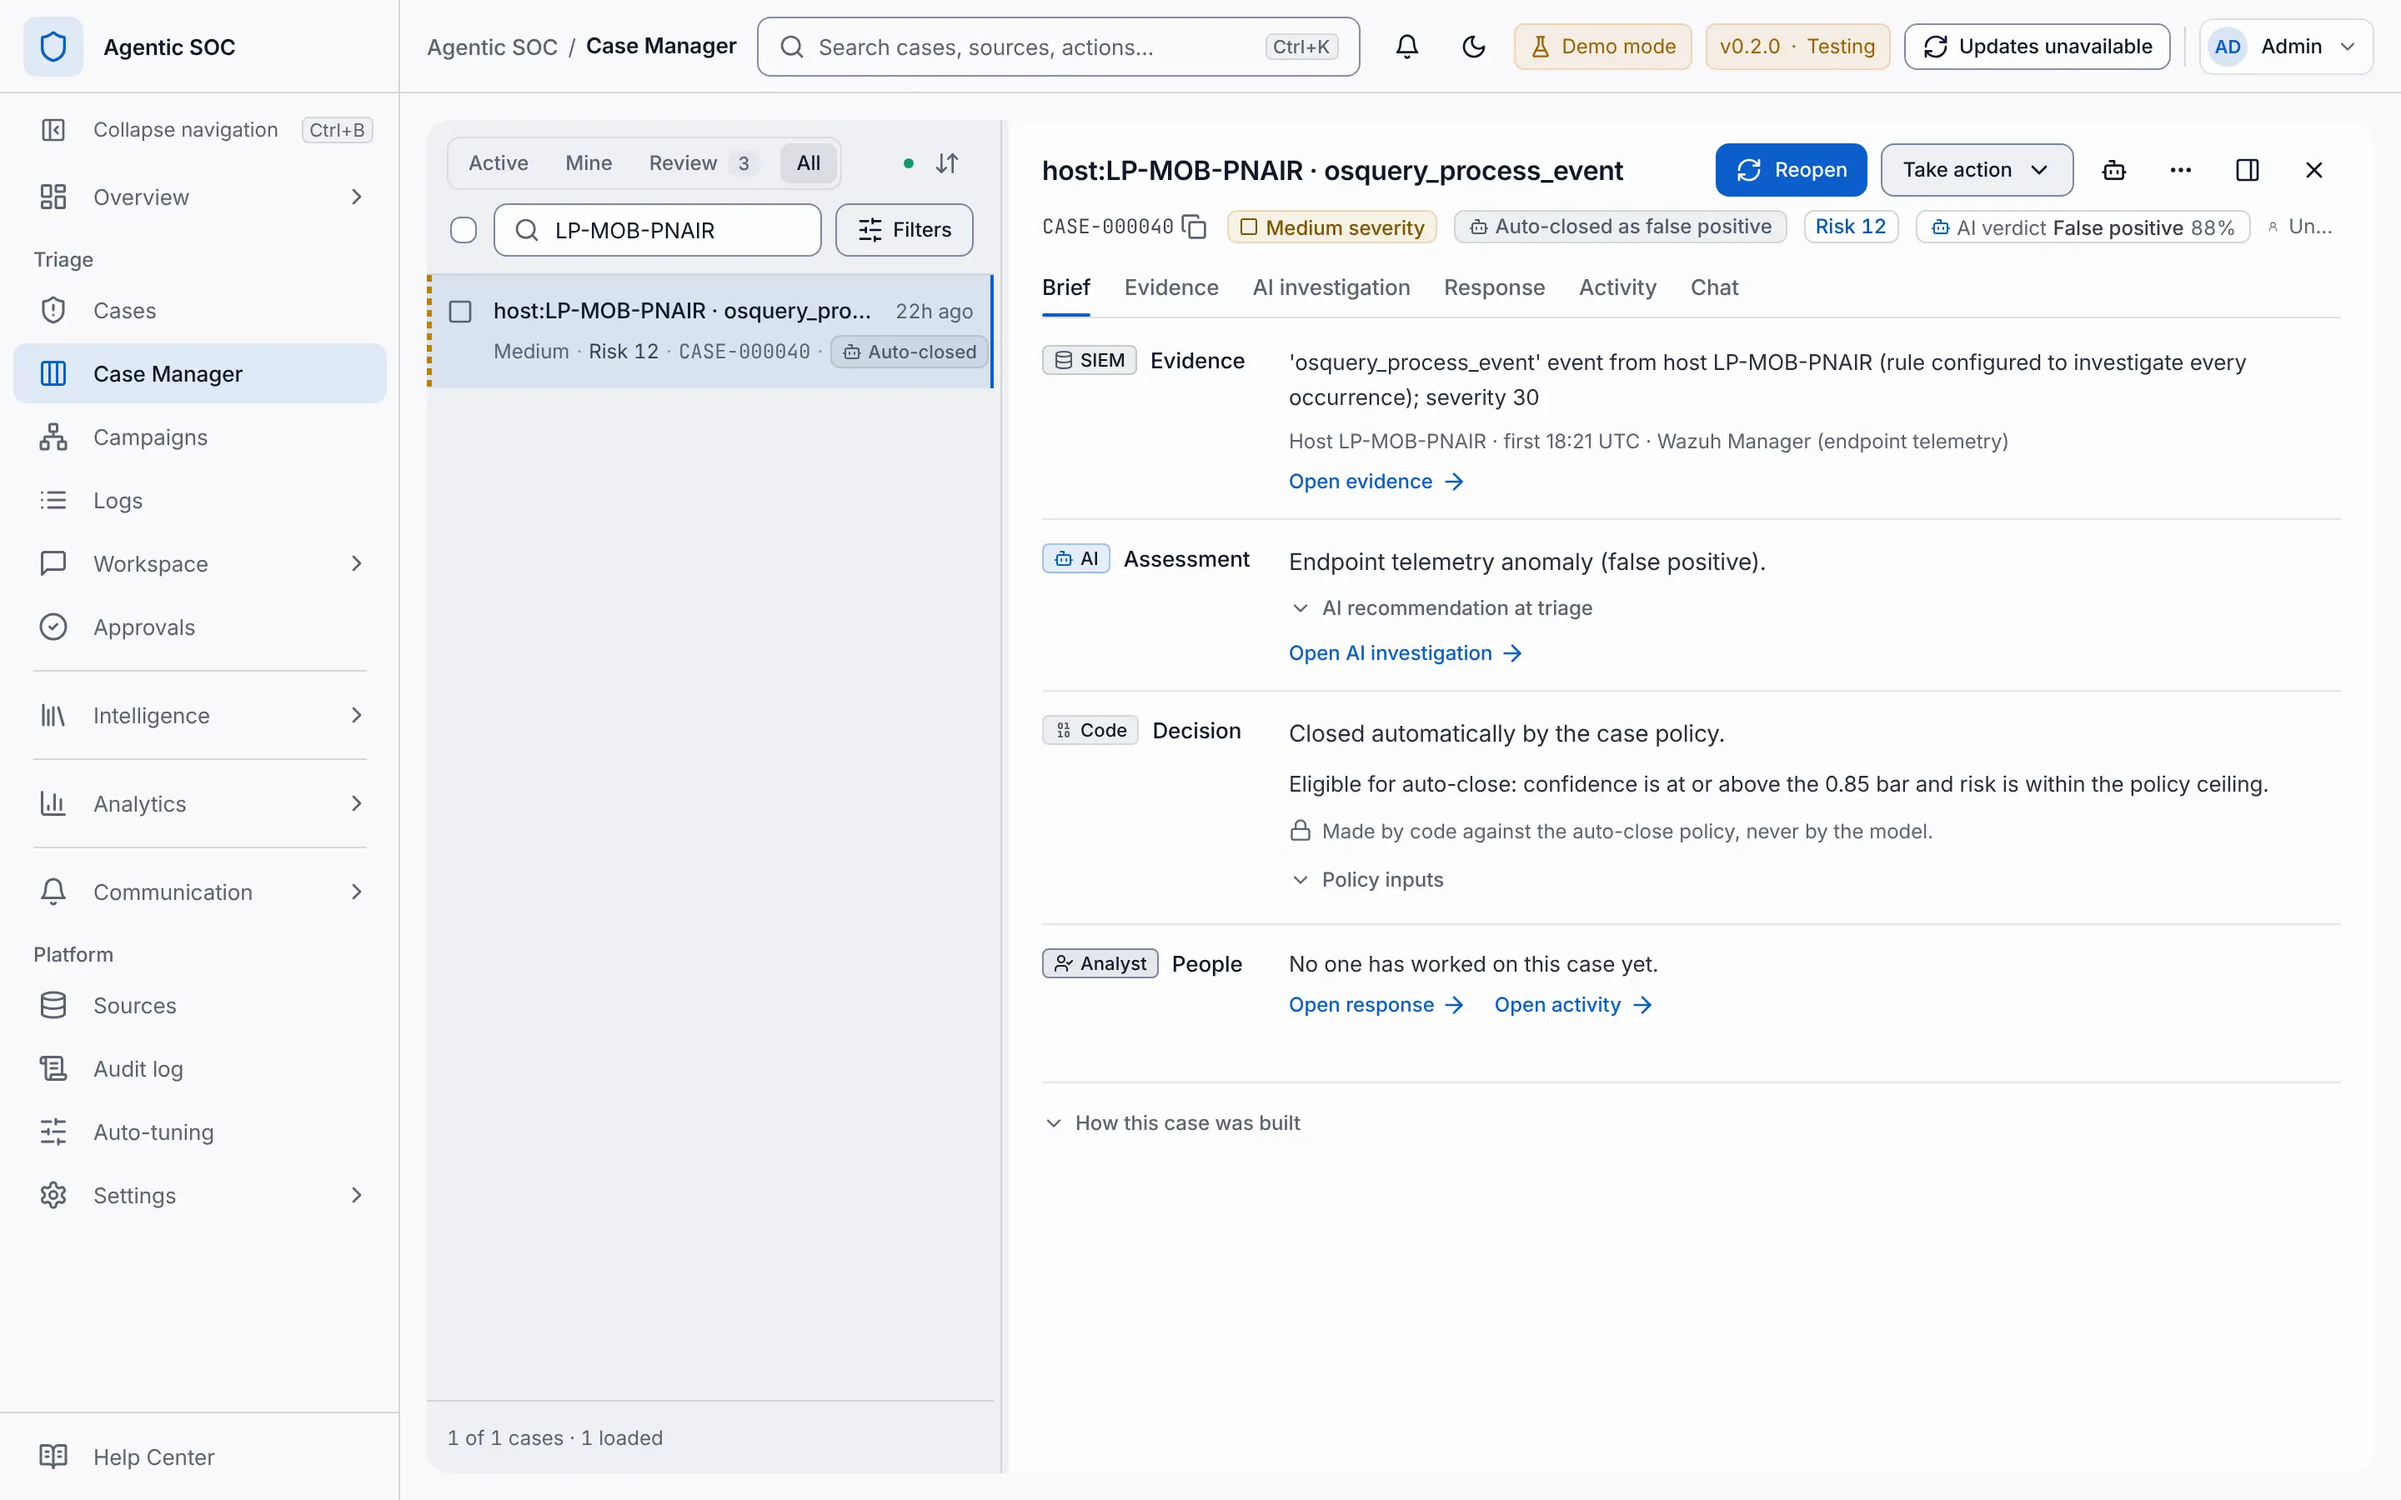
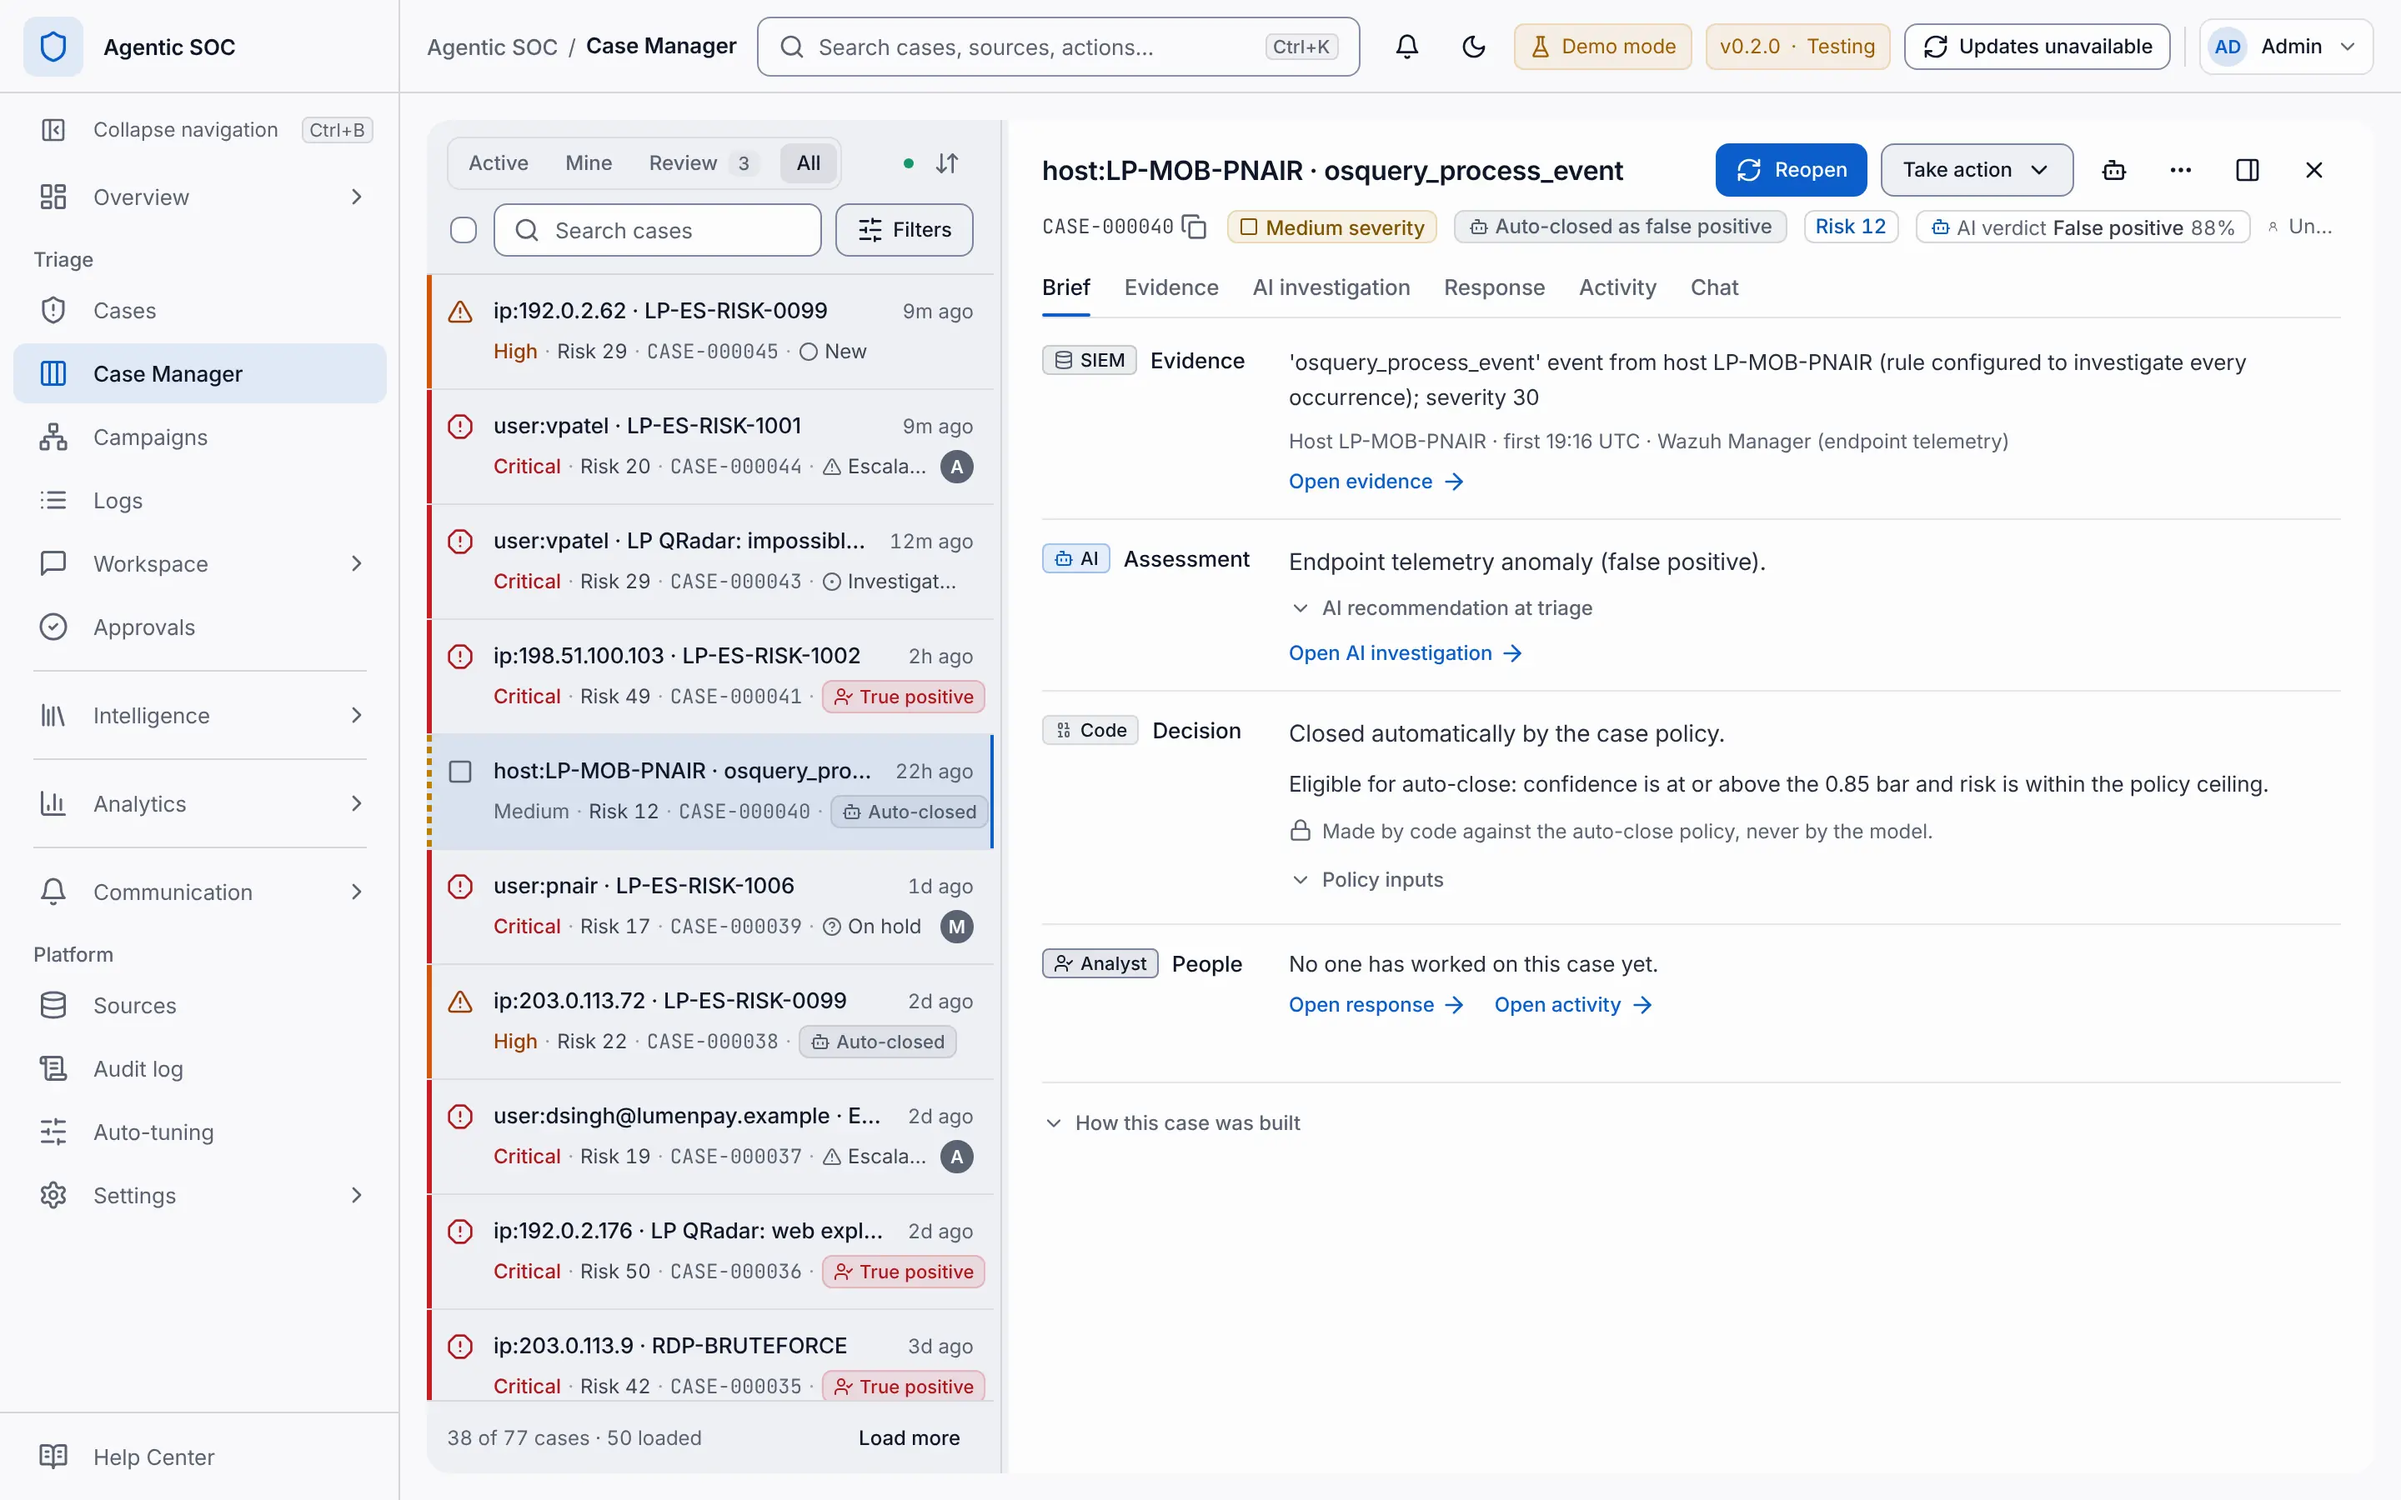
WP17D review: whole chat-titles frame, full Case Manager queue, data export alt
- chat-titles light and dark were cut through the first question at the right
  edge and through a list line at the bottom. Captured again from a fresh
  seeded Demo (2742 by 376), so the whole question shows and the crop ends
  between two lines.
- docs/assets/screenshots/case-manager.webp showed a queue of one row filtered
  by a search. Captured again with the All scope and no search, CASE-000040
  open and the cases around it listed (same name, size and light theme).
- The data-export alt text said the Build ZIP in background button "is off";
  it is unavailable in Demo Mode, and the alt text now says so.
- Regenerated release-notes.gen.json and whats-new.md; the knowledge corpus is
  unchanged. The record's WP17D section gives the new sizes, the bundle size
  and a Review subsection.
- test_round16_wp17d_records.py: two tests for the recaptures and the alt text,
  both failing on the WP17D files.

Claude-Session: https://claude.ai/code/session_01B3vp5DoutxD6hpRJ5xf7sH

diff --git a/backend/tests/test_round16_wp17d_records.py b/backend/tests/test_round16_wp17d_records.py
@@ -78,6 +78,19 @@ REPLACED_SIZE = {
 }
[1 lines of base64/hex data omitted]
 
+# The review's recaptures: the sha256 of each file as WP17D first committed it (2c147cc).
+# chat-titles was cut through the first question at the right edge and through a list line
+# at the bottom; case-manager.webp showed a queue of one row filtered by a search.
+REVIEW_REPLACED = {
[3 lines of base64/hex data omitted]
+}
+# The question bubble ends 1,402 CSS pixels from the left of the 1,440 viewport and the crop
+# starts after the 64-pixel rail, so a crop that holds the whole question is at least
+# 2 x (1,402 - 64) = 2,676 device pixels wide.
+CHAT_TITLES_MIN_WIDTH = 2 * (1402 - 64)
+
 
 def _read(path: Path) -> str:
     return path.read_text(encoding="utf-8")
@@ -192,3 +205,23 @@ def test_the_record_lists_every_file_this_package_added_or_replaced():
     names.append("case-manager.webp")
     unlisted = [name for name in names if f"`{name}`" not in section]
     assert unlisted == []
+
+
+def test_the_review_recaptures_replace_the_cut_and_filtered_frames():
+    stale = [path.name for path, old_sha in REVIEW_REPLACED.items()
+             if hashlib.sha256(path.read_bytes()).hexdigest() == old_sha]
+    assert stale == []
+    sizes = {_webp_size((ASSETS / f"chat-titles-{theme}.webp").read_bytes()) for theme in ("light", "dark")}
+    assert len(sizes) == 1, sizes
+    ((width, _height),) = sizes
+    assert width >= CHAT_TITLES_MIN_WIDTH, width
+    assert _webp_size(CASE_MANAGER_SHOT.read_bytes()) == (2880, 1800)
+    section = _wp17d_section()
+    assert "All scope with no search" in section
+    assert "and a search, so the open case" not in section
+
+
+def test_the_data_export_alt_says_the_button_is_unavailable():
+    alt = _highlights()["data-export"]["screenshot"]["alt"]
+    assert "Build ZIP in background button is unavailable" in alt
+    assert "is off" not in alt

diff --git a/docs/research/2026-11-round16/acceptance/screenshots.md b/docs/research/2026-11-round16/acceptance/screenshots.md
@@ -247,7 +247,7 @@ interface of the update they belong to (SPEC §4.7 WP17), so they stay as they a
 | `docked-navigation` (0.2.0.2026-11-06) | `docked-navigation-light.webp`: 115,750 B | `docked-navigation-dark.webp`: 111,620 B | 2880 by 1800 |
 | `chat-capacity` (0.2.0.2026-11-06) | `chat-capacity-light.webp`: 58,110 B | `chat-capacity-dark.webp`: 56,016 B | 1536 by 1520 |
 | `chat-starters` (0.2.0.2026-10-24) | `chat-starters-light.webp`: 56,874 B | `chat-starters-dark.webp`: 54,064 B | 2186 by 866 |
-| `chat-titles` (0.2.0.2026-10-24) | `chat-titles-light.webp`: 29,200 B | `chat-titles-dark.webp`: 27,844 B | 1992 by 416 |
+| `chat-titles` (0.2.0.2026-10-24) | `chat-titles-light.webp`: 29,900 B | `chat-titles-dark.webp`: 28,508 B | 2742 by 376 |
 | `chat-unlimited` (0.2.0.2026-10-12) | `chat-unlimited-light.webp`: 56,542 B | `chat-unlimited-dark.webp`: 53,864 B | 1536 by 980 |
 | `remember-me` (0.2.0.2026-10-12) | `remember-me-light.webp`: 48,056 B | `remember-me-dark.webp`: 43,536 B | 1600 by 900 |
 | `report-downloads` (0.2.0.2026-10-12) | `report-downloads-light.webp`: 27,340 B | `report-downloads-dark.webp`: 25,350 B | 824 by 886 |
@@ -271,10 +271,11 @@ The fourteen highlights the acceptance pass named all have figures. The other tw
 
 ### Docs screenshot
 
-`docs/assets/screenshots/case-manager.webp` (121,912 B, 2880 by 1800, light, the navigation
+`docs/assets/screenshots/case-manager.webp` (180,400 B, 2880 by 1800, light, the navigation
 expanded) was captured again: it showed the Brief's model lane as "AI AI", and the lane is now
-named Assessment. It shows CASE-000040, a false positive the AI closed, found with the queue's
-All scope and a search, so the open case is the highlighted row. The alt text in `README.md`
+named Assessment. It shows CASE-000040, a false positive the AI closed, open from the queue's
+All scope with no search, so the queue lists the other cases around its highlighted row. The
+alt text in `README.md`
 and `docs/getting-started/quickstart.md` now names the Assessment lane and says the case policy
 closed the case.
 
@@ -325,9 +326,9 @@ closed the case.
   none broken once each was scrolled into view: 35 themed pairs, each loaded in the page's
   theme with no file of the other theme, and the 9 single images of older updates. 0.1.1 renders
   9 highlights and no figures. The same in light and dark.
-- **Help Center bundle.** 18,063,795 bytes in 281 files before and 22,068,113 bytes in 333 files
-  after (`npm run docs:bundle`), so 4,004,318 bytes more: the 52 new images. The 79 files in
-  `docs/assets/releases/0.2.0/` hold 7,498,280 bytes.
+- **Help Center bundle.** 18,063,795 bytes in 281 files before and 22,128,003 bytes in 333 files
+  after the review (`npm run docs:bundle`), so 4,064,208 bytes more: the 52 new images and the
+  images captured again. The 79 files in `docs/assets/releases/0.2.0/` hold 7,499,644 bytes.
 
 ### Limitations
 
@@ -339,3 +340,17 @@ closed the case.
   and summarised; the Reports library page lists the same report as one row.
 - **Noise reduction.** The Demo's alert counters cover part of the window, so
   `noise-flow-views` reads "Reduced by" not measured, with the partial coverage note.
+
+### Review
+
+The independent review checked every image by eye and by luminance, and the live page and the
+welcome in both themes at 1440 by 900 and 390 by 844 (44 figures, all loaded, none of the other
+theme, no horizontal scroll). It changed three things:
+
+- **`chat-titles`** was cut through the first question at the right edge ("Which of the 37")
+  and through the first list line at the bottom. It was captured again from a fresh seeded
+  Demo, light and dark, so the whole question shows and the crop ends between two lines.
+- **`case-manager.webp`** showed a queue of one row, filtered by a search. It was captured
+  again with the All scope and no search, so the queue lists the cases around the open one.
+- **`data-export`** alt text said the Build ZIP in background button "is off". The button is
+  unavailable in Demo Mode, and the alt text now says so.

diff --git a/docs/releases/whats-new.md b/docs/releases/whats-new.md
@@ -478,8 +478,8 @@ Background jobs, a full data export and declared-benign rules.
 - **A full data export** (New, Administration). Settings, Organization, Data export builds one verified ZIP of the scopes you choose, on the server. [Read more](../administration/settings.md#export-portable-application-state).
 
 <figure markdown="span">
-[![Data export settings with the Archive and Segmented assembly choices and the scopes to include. Build ZIP in background is off, with the note that exports are not available in Demo Mode.](../assets/releases/0.2.0/data-export-light.webp#only-light) ](../assets/releases/0.2.0/data-export-light.webp)
-[![Data export settings with the Archive and Segmented assembly choices and the scopes to include. Build ZIP in background is off, with the note that exports are not available in Demo Mode.](../assets/releases/0.2.0/data-export-dark.webp#only-dark) ](../assets/releases/0.2.0/data-export-dark.webp)
+[![Data export settings with the Archive and Segmented assembly choices and the scopes to include. The Build ZIP in background button is unavailable, with the note that exports are not available in Demo Mode.](../assets/releases/0.2.0/data-export-light.webp#only-light) ](../assets/releases/0.2.0/data-export-light.webp)
+[![Data export settings with the Archive and Segmented assembly choices and the scopes to include. The Build ZIP in background button is unavailable, with the note that exports are not available in Demo Mode.](../assets/releases/0.2.0/data-export-dark.webp#only-dark) ](../assets/releases/0.2.0/data-export-dark.webp)
 <figcaption>Data export in Settings.</figcaption>
 </figure>
 
